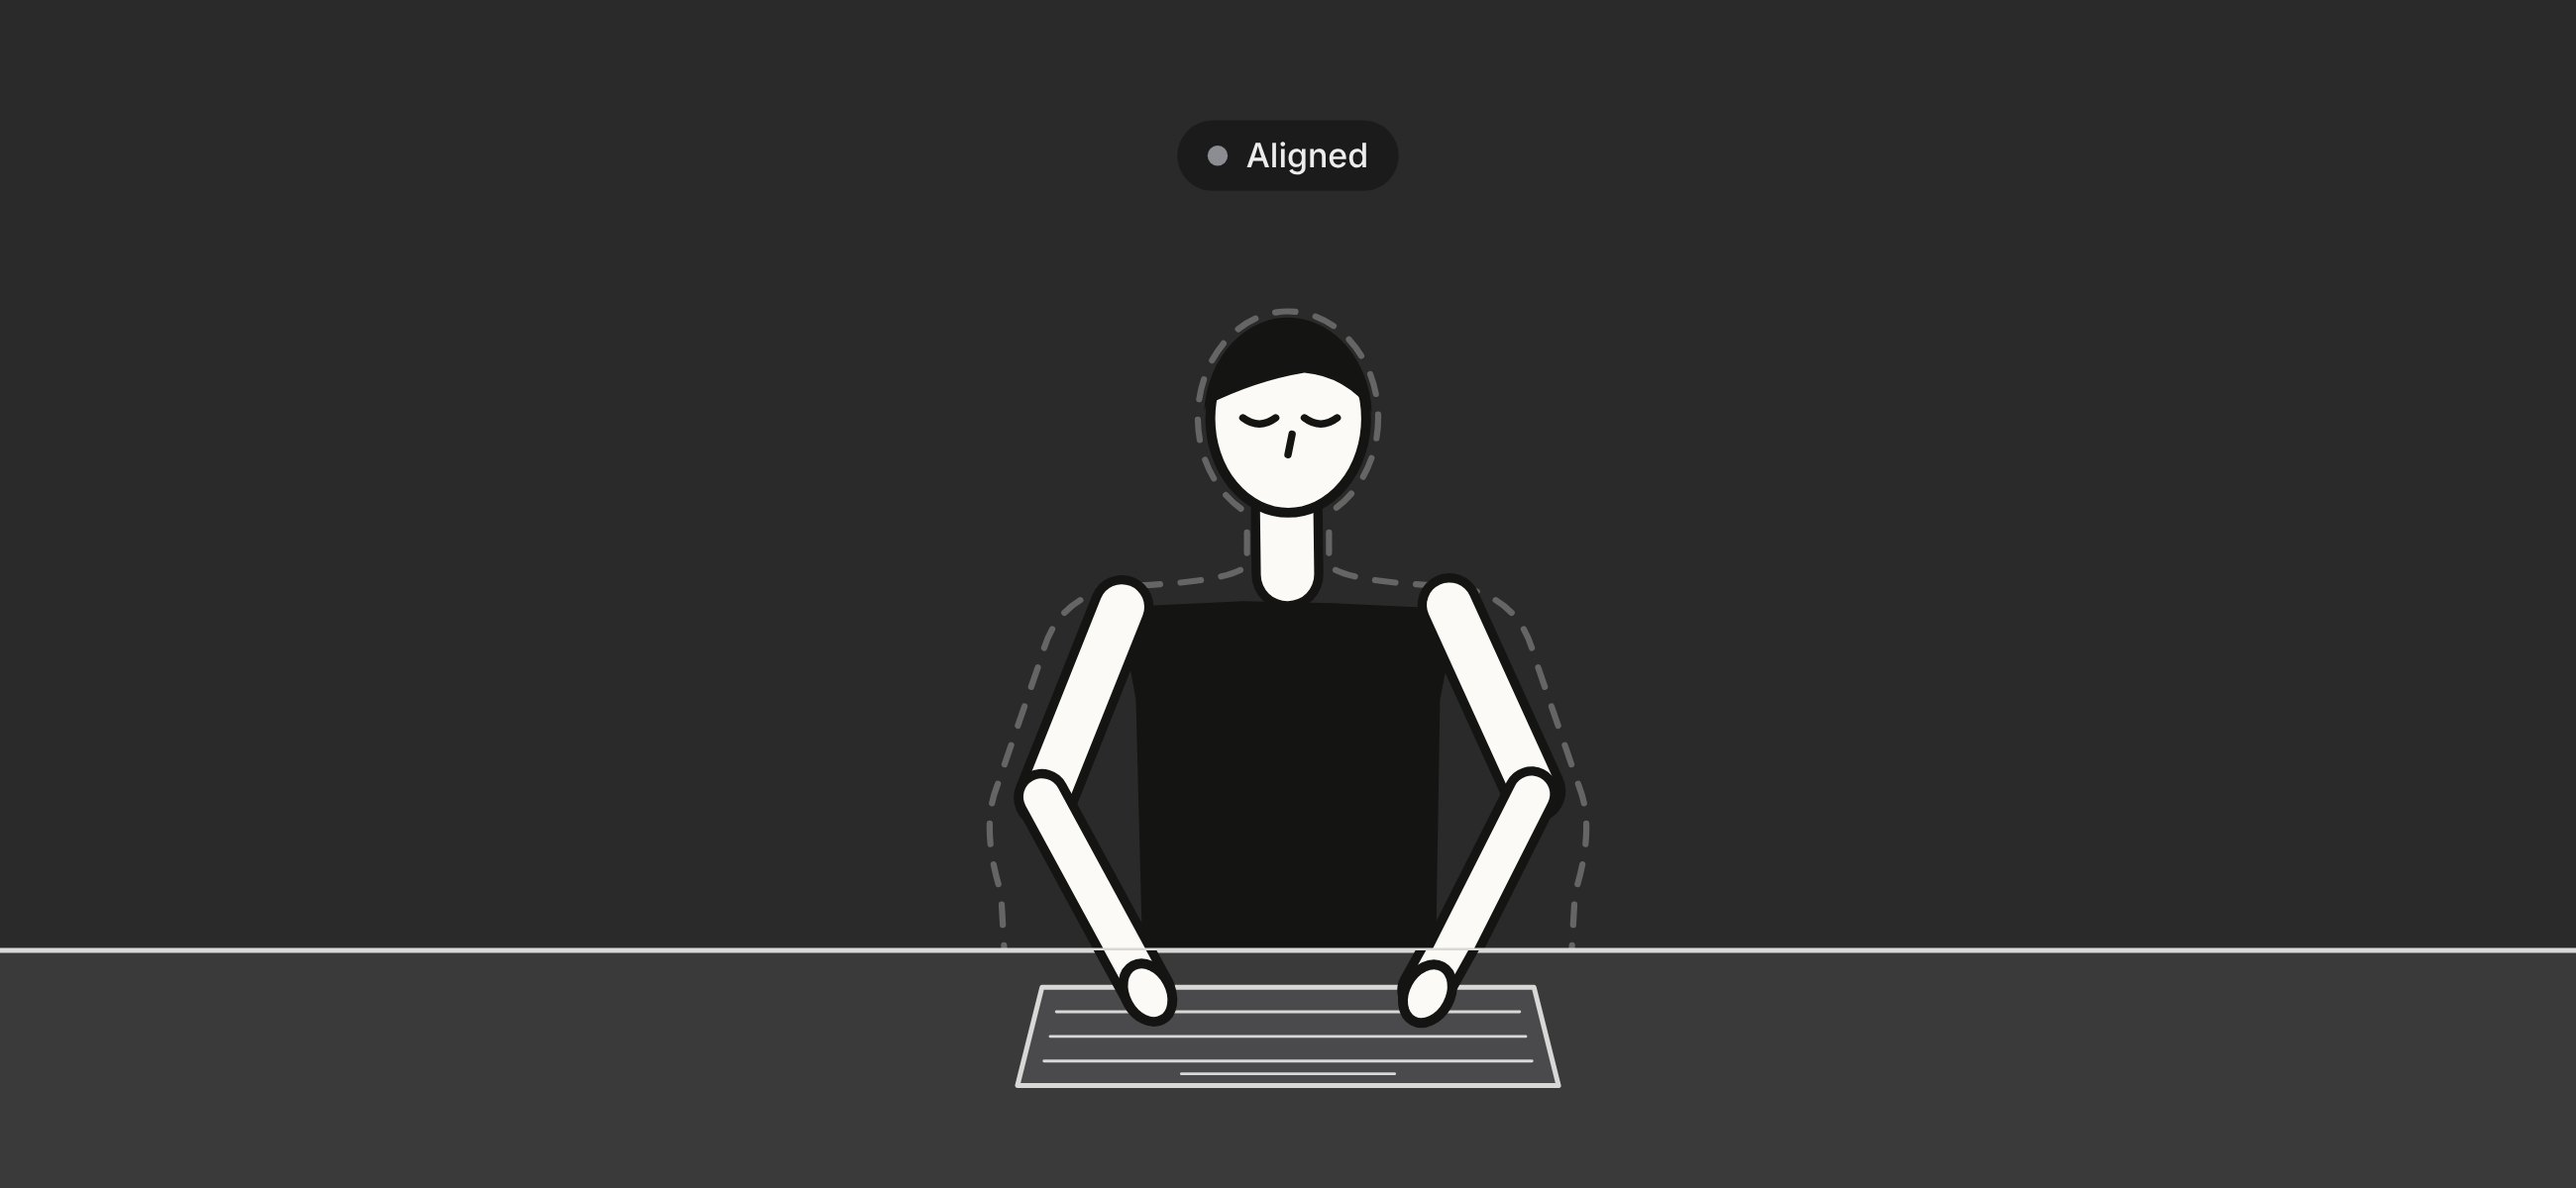
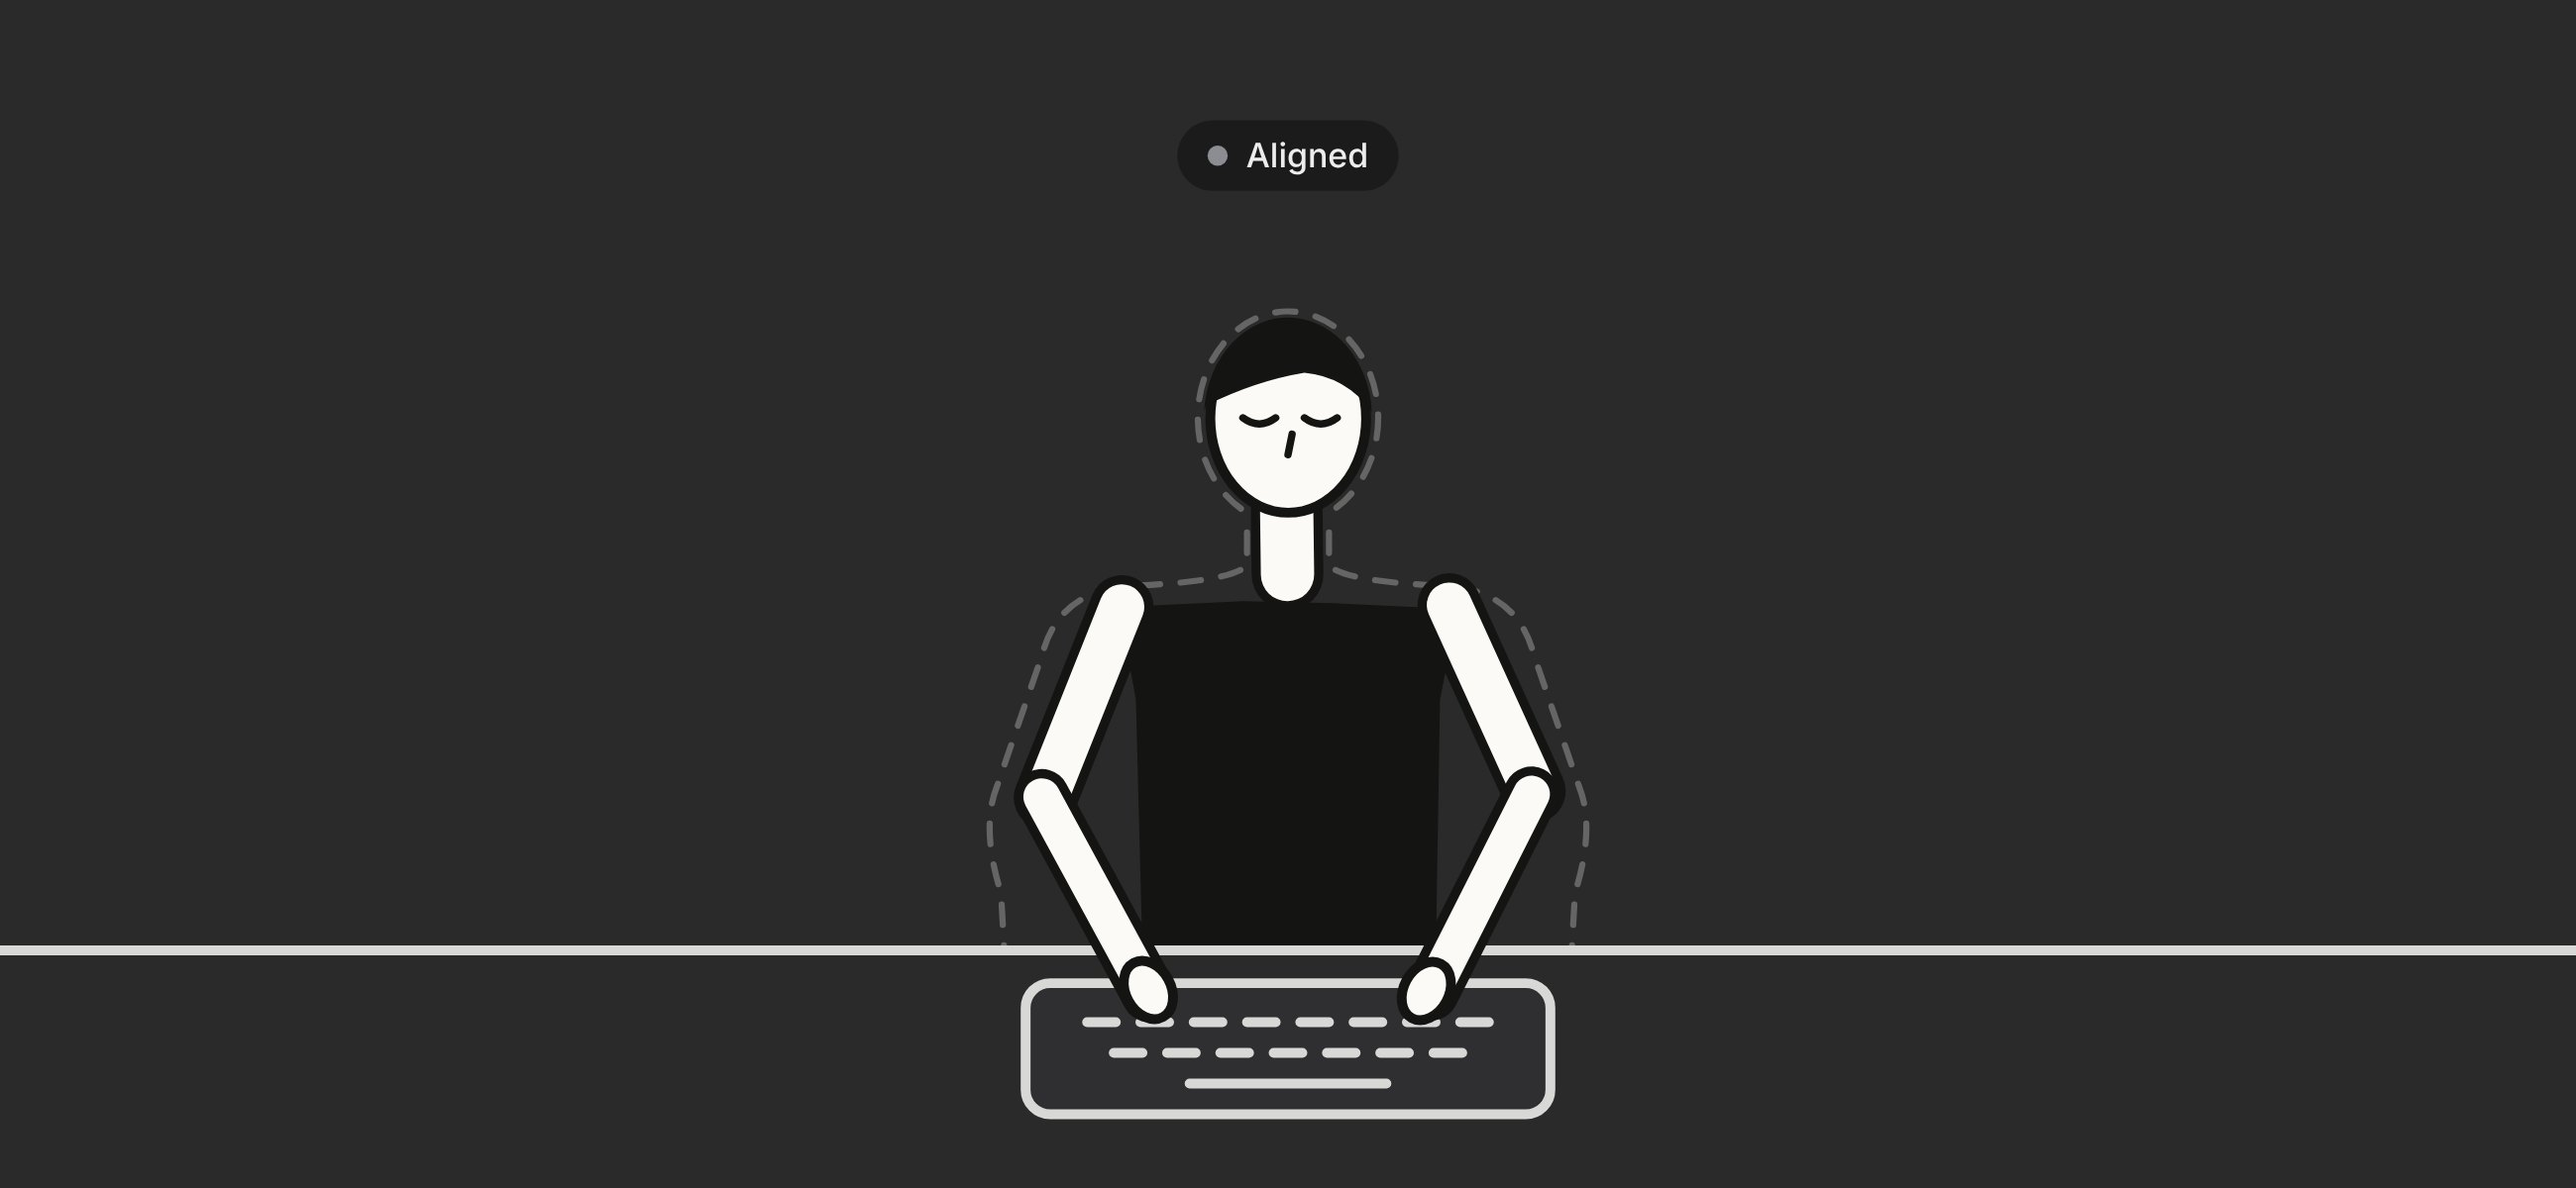
Poise thumbnail: gray desk told apart by its edge only, one stroke weight everywhere, cleaner keyboard
Claude-Session: https://claude.ai/code/session_01UHSuVgL78FHF3ZiXhWhDac

Changed region(s): [[0.3738, 0.8017, 0.6231, 0.9558]]

diff --git a/poise-motion.html b/poise-motion.html
@@ -50,7 +50,8 @@ function drawFigure(ctx, P, { j = () => 0, ink, paper }) {
   const SL = [-40 * sw, -116 + drop + sd], SR = [40 * sw, -116 + drop + sd];
   const NECK = [hx * .35, -124 + drop + sd];
   ctx.save(); ctx.translate(0, -10); ctx.rotate(P.bend || 0); ctx.translate(0, 10);
-  if (!P.armsOnly) {
+  if (P.armsOnly) n = 23;   // skip the jitter the tee and head would have used, so redrawn arms land exactly on the first ones
+  else {
   // tee
   ctx.fillStyle = ink;
   poly([[SL[0] - 2, SL[1] + 1], [NECK[0] - 11, NECK[1] + 7], [NECK[0] + 11, NECK[1] + 7], [SR[0] + 2, SR[1] + 1], [37 * (1 - .07 * tb), SR[1] + 22], [34, 60], [-34, 60], [-37 * (1 - .07 * tb), SL[1] + 22]]);
@@ -180,24 +181,25 @@ function frame(now) {
   drawFigure(ctx, { ...ARMS, ...S, breath }, { j: jit, ink, paper });
   ctx.restore();
 
-  // the desk in front: covers the lower body, with a simple keyboard the hands rest on
-  const deskY = ay - s * 62, kw = s * 132, kTop = deskY + s * 9, kH = s * 24;
-  const dInk = dark ? '#D8D8D6' : ink;
-  ctx.fillStyle = dark ? '#3A3A3B' : paper; ctx.fillRect(0, deskY, W, H - deskY);
-  ctx.strokeStyle = dInk; ctx.lineWidth = Math.max(1.5, s * 1.2); ctx.lineCap = 'round'; ctx.lineJoin = 'round';
+  // the desk in front: the same gray as the ground, told apart only by its edge line.
+  // Every line here uses the figure's own stroke (2.4 units), so the whole drawing has one weight.
+  const lw = 2.4 * s, deskY = ay - s * 62, dInk = dark ? '#D8D8D6' : ink;
+  ctx.fillStyle = rgb(base); ctx.fillRect(0, deskY, W, H - deskY);
+  ctx.strokeStyle = dInk; ctx.lineWidth = lw; ctx.lineCap = 'round'; ctx.lineJoin = 'round';
   ctx.beginPath(); ctx.moveTo(0, deskY); ctx.lineTo(W, deskY); ctx.stroke();
-  // keyboard in perspective: narrower at the back, wider at the front
-  const kx = ax - kw / 2, inset = s * 6;
-  ctx.fillStyle = dark ? '#4A4A4C' : '#F1F0EB';
-  ctx.beginPath(); ctx.moveTo(kx + inset, kTop); ctx.lineTo(kx + kw - inset, kTop); ctx.lineTo(kx + kw, kTop + kH); ctx.lineTo(kx, kTop + kH); ctx.closePath(); ctx.fill(); ctx.stroke();
-  ctx.lineWidth = Math.max(1, s * .7);
-  for (let r = 1; r < 4; r++) {   // key rows
-    const y = kTop + kH * r / 4, k = r / 4, l = kx + inset * (1 - k) + s * 5, rr = kx + kw - inset * (1 - k) - s * 5;
-    ctx.beginPath(); ctx.moveTo(l, y); ctx.lineTo(rr, y); ctx.stroke();
-  }
-  ctx.beginPath(); ctx.moveTo(ax - s * 26, kTop + kH * .88); ctx.lineTo(ax + s * 26, kTop + kH * .88); ctx.stroke();   // space bar
-  // the forearms and hands come back on top of the desk, resting on the keyboard
-  ctx.save(); ctx.beginPath(); ctx.rect(0, deskY, W, H - deskY); ctx.clip();
+  // keyboard: a flat rounded slab with short rounded keys, clean like a Notion illustration
+  const kw = s * 128, kh = s * 32, kx = ax - kw / 2, ky = deskY + s * 8;
+  ctx.fillStyle = dark ? '#2F2F31' : paper;
+  ctx.beginPath(); ctx.roundRect(kx, ky, kw, kh, s * 6); ctx.fill(); ctx.stroke();
+  const rows = [[8], [7]], key = s * 7, step = s * 13;
+  rows.forEach(([n, off], r) => {
+    const y = ky + s * (9.5 + r * 7.5), x0 = ax - ((n - 1) * step) / 2;
+    for (let i = 0; i < n; i++) { const x = x0 + i * step; ctx.beginPath(); ctx.moveTo(x - key / 2, y); ctx.lineTo(x + key / 2, y); ctx.stroke(); }
+  });
+  ctx.beginPath(); ctx.moveTo(ax - s * 24, ky + s * 24.5); ctx.lineTo(ax + s * 24, ky + s * 24.5); ctx.stroke();   // space bar
+  // the forearms and hands come back on top of the desk (a little above its edge, so the edge line
+  // never shows through the arms), resting on the keyboard
+  ctx.save(); ctx.beginPath(); ctx.rect(0, deskY - lw, W, H - deskY + lw); ctx.clip();
   ctx.translate(ax, ay + s * -130 * (1 - zoom)); ctx.scale(s * zoom, s * zoom); ctx.translate(0, -30);
   drawFigure(ctx, { ...ARMS, ...S, breath, armsOnly: true }, { j: jit, ink, paper });
   ctx.restore();
